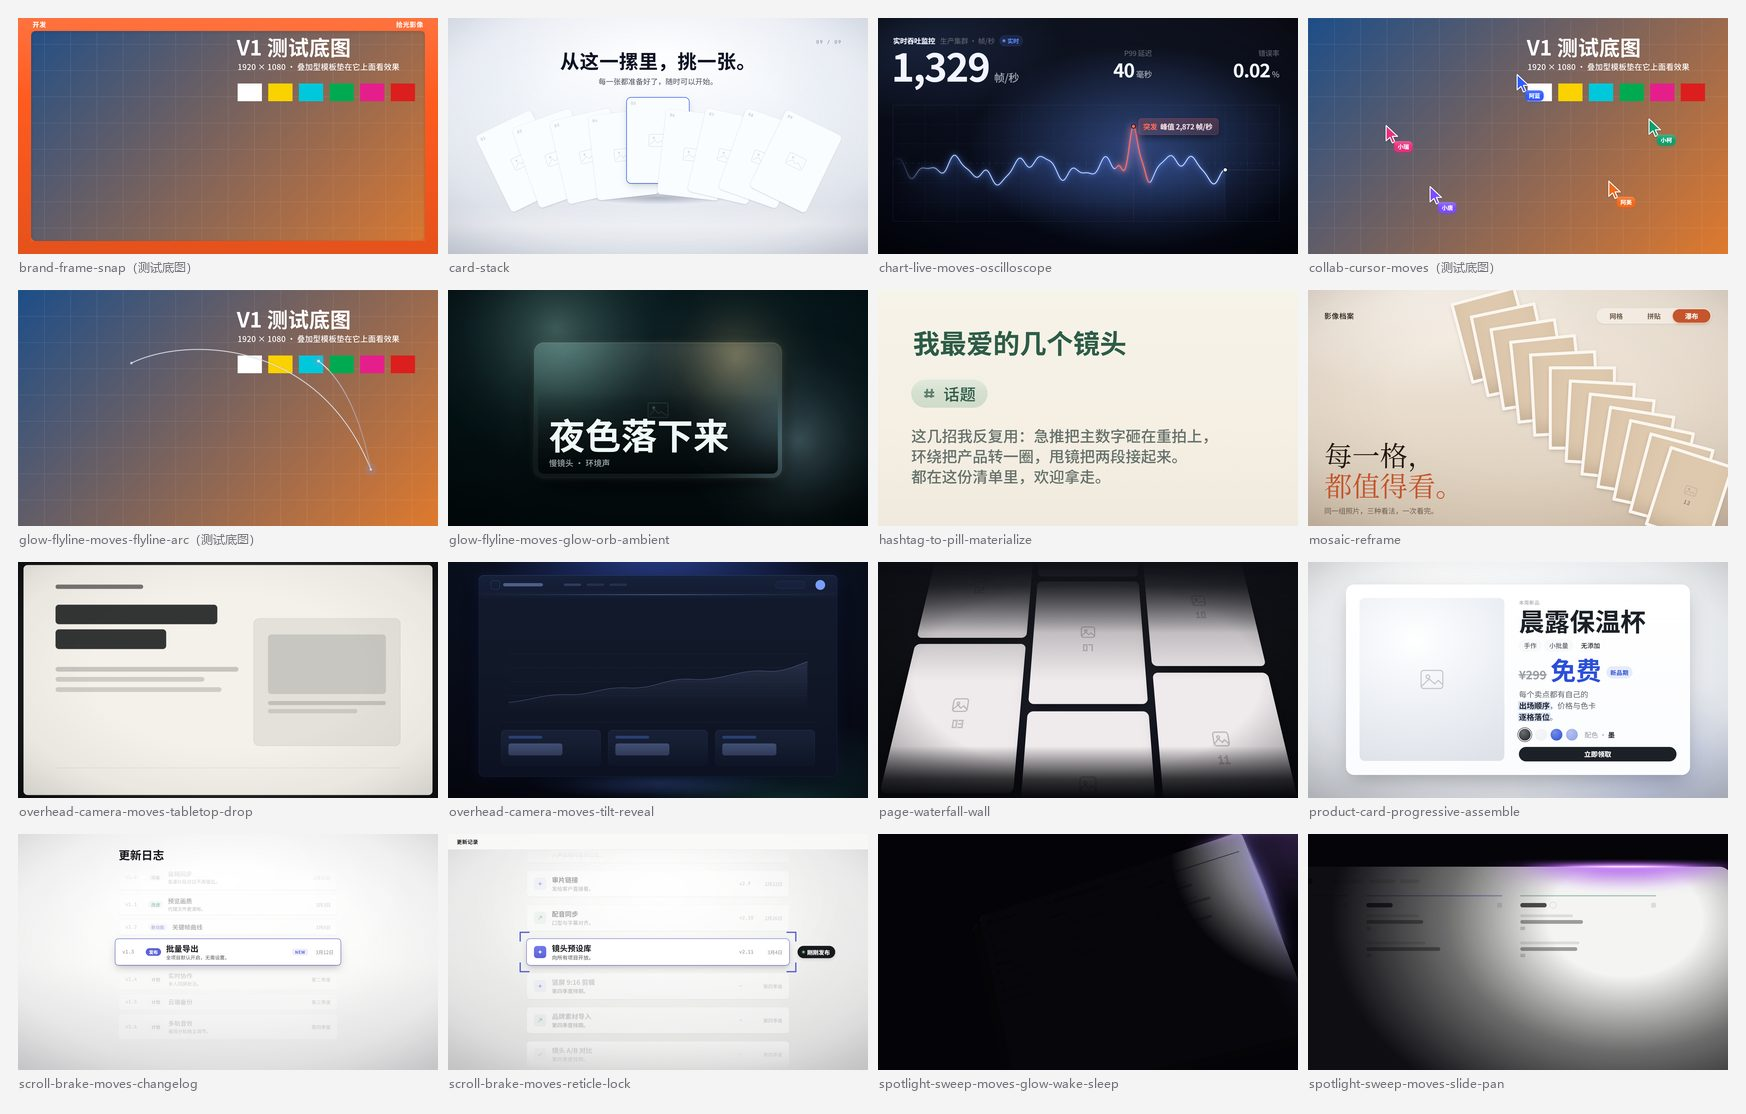
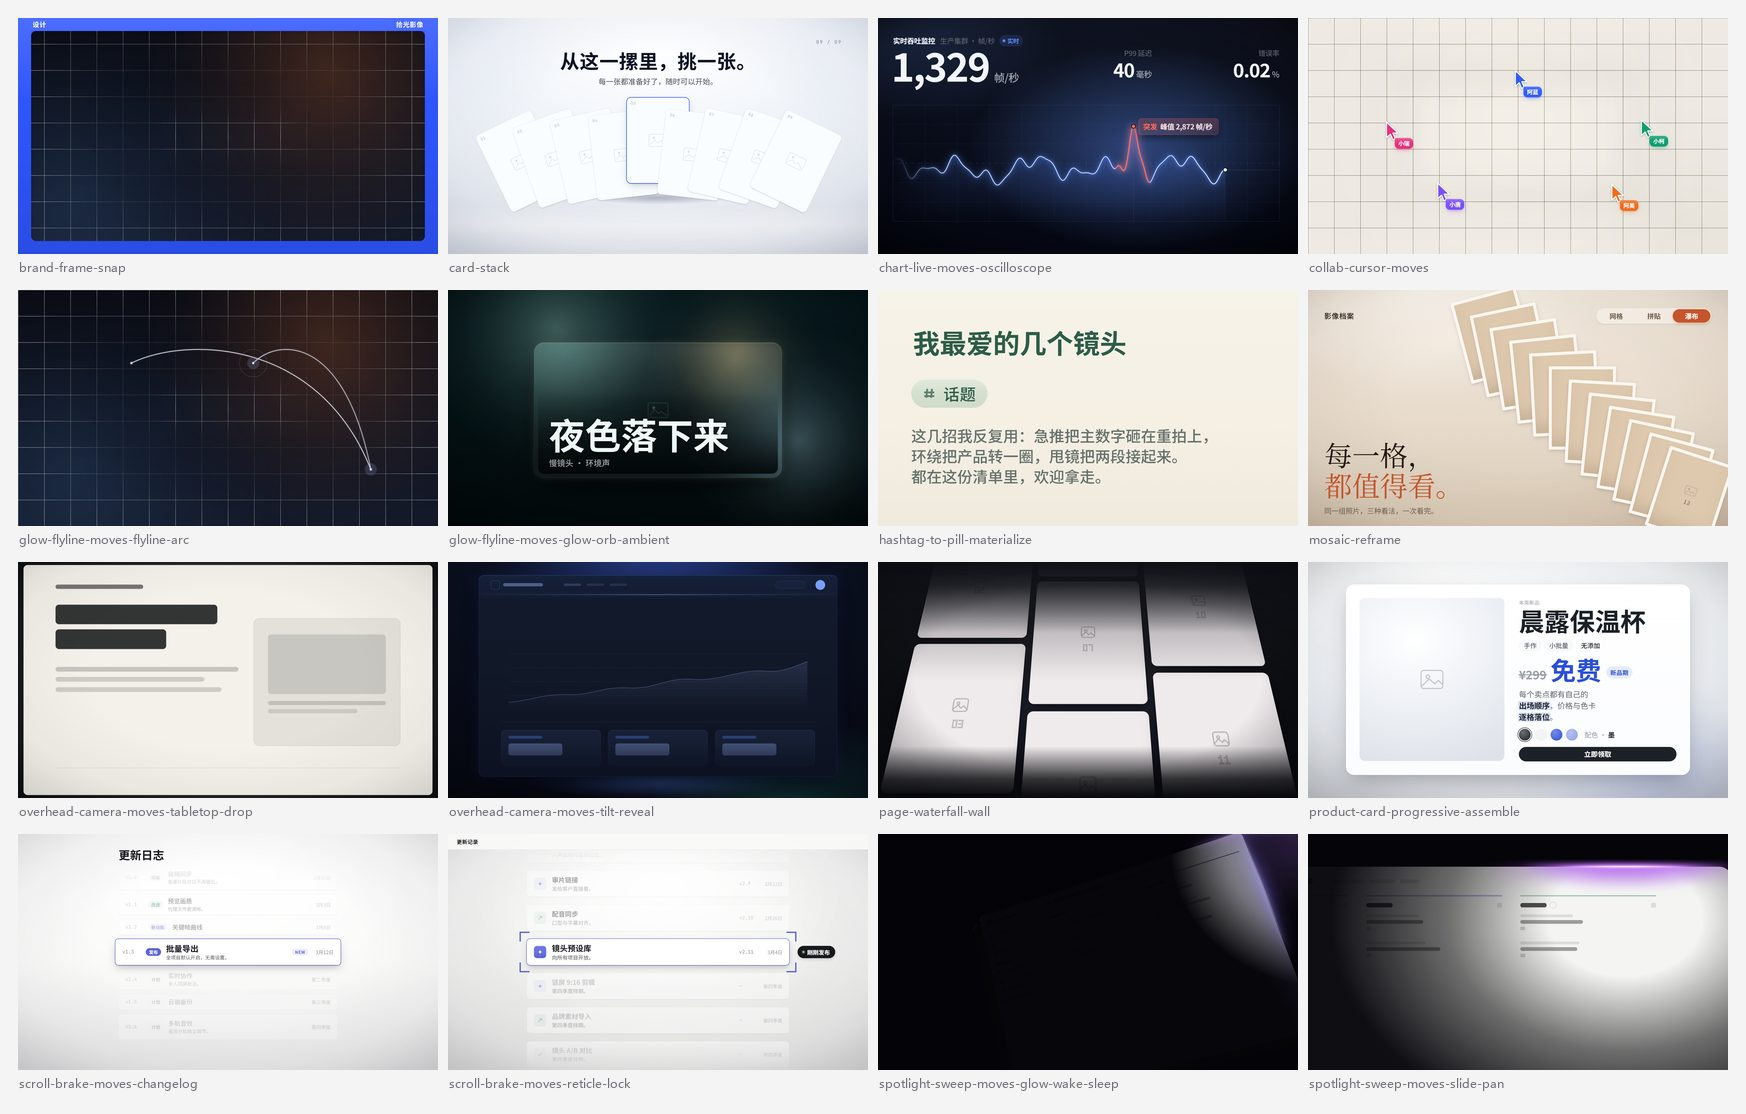
Replace test-backdrop previews with clean renders; add GIFs and Resolve screenshots
Overlay and transition cards have no background of their own, so their
acceptance stills showed the demo plate through them. Render those cards
headlessly with alpha and composite over a neutral demo plate instead.
Add nine animated previews and two real Resolve 21 inspector screenshots
to show that every card is edited from the Inspector.

Changed region(s): [[0.0, 0.0, 0.2784, 0.4883], [0.7423, 0.0, 0.9897, 0.2442]]

diff --git a/README.md b/README.md
@@ -29,7 +29,17 @@
 
 同一个图形可以多次拖到时间线，每个实例的字段各自独立。
 
-## 检查器里能改什么
+## 在达芬奇里改参数
+
+卡片导入后就是一个普通 OGraf 图形。选中它，检查器右侧就是全部参数，改完立刻在监视器里生效，不用进 Fusion 节点。下面是 21.1.2 里的实拍，窗口左侧是媒体池，时间线上是导入的卡：
+
+![达芬奇检查器：brace-expand 的字段面板](previews/resolve/inspector.png)
+
+下拉字段在 21.1.2 里是真正的下拉菜单，例如 marker 卡的「背景」：
+
+![达芬奇检查器：marker 卡的下拉字段](previews/resolve/select-field.png)
+
+常见字段：
 
 | 字段 | 用途 |
 |---|---|
@@ -41,9 +51,26 @@
 
 每张卡的字段不完全相同，以检查器实际显示为准。
 
+## 动起来看看
+
+下面这些动图由同一份 OGraf 包离屏渲染，和达芬奇里看到的是同一套动画。前景与转场类的卡不带背景，动图里垫的是自绘演示底，实际使用时叠在实拍素材上。
+
+| | |
+|:--:|:--:|
+| <img src="previews/showcase/paper-title-card.gif" width="420"> | <img src="previews/showcase/research-card-stack-scroll.gif" width="420"> |
+| **paper-title-card** 纸面压印标题 | **research-card-stack-scroll** 研究卡片堆叠 |
+| <img src="previews/showcase/chart-live-moves-dot-swarm.gif" width="420"> | <img src="previews/showcase/carousel-3d.gif" width="420"> |
+| **chart-live-moves-dot-swarm** 点阵数字生长 | **carousel-3d** 3D 卡片轮播 |
+| <img src="previews/showcase/glow-flyline-moves-orb-flyline-relay.gif" width="420"> | <img src="previews/showcase/collab-cursor-moves.gif" width="420"> |
+| **glow-flyline-moves-orb-flyline-relay** 光轨接力 | **collab-cursor-moves** 协作光标 |
+| <img src="previews/showcase/fui-hud-moves.gif" width="420"> | <img src="previews/showcase/print-texture-transitions.gif" width="420"> |
+| **fui-hud-moves** HUD 标注 | **print-texture-transitions** 印刷质感转场 |
+| <img src="previews/showcase/transition-travel.gif" width="420"> | |
+| **transition-travel** 空间转场 | |
+
 ## 卡片一览
 
-按制作批次分组，每批配一张验收静帧拼图，点开列表可以看完整模板名。
+按制作批次分组，每批配一张缩略图拼图，点开列表可以看完整模板名。
 
 ### 第一批 · 5 张
 
@@ -270,7 +297,7 @@
 
 </details>
 
-转场和前景层的卡（transition-travel、print-texture-transitions、collab-cursor-moves、brand-frame-snap 等）在验收渲染里叠的是测试底图，画面带 V1 标记属于预期，实际使用时叠在自己的素材上；draw-svg-trace 的预览帧合成在浅色底上，方便看清标注线。
+拼图里大部分帧来自达芬奇的验收渲染；brand-frame-snap、collab-cursor-moves、fui-hud-moves、glow-flyline-moves-flyline-arc、print-texture-transitions、transition-travel 和 draw-svg-trace 这几张不带背景，为看清效果垫了自绘的演示底，实际使用时是叠在实拍素材上的。
 
 ## marker 测试卡
 
@@ -302,7 +329,10 @@ templates/
   marker-underline-title/      测试卡 v0.1
   marker-underline-title-v0.2/ 测试卡 v0.2
 docs/                          18 份制作说明、验收清单与修改记录
-previews/                      拼贴图、批次预览、marker 动图与视频
+previews/
+  batches/                     每批一张缩略图拼图
+  showcase/                    9 张动图
+  resolve/                     达芬奇检查器截图
 ```
 
 每张卡的目录里至少有 `<模板名>.ograf.json`、`graphic.mjs`、`fonts/`、`NOTICE.md` 和上游许可证。
